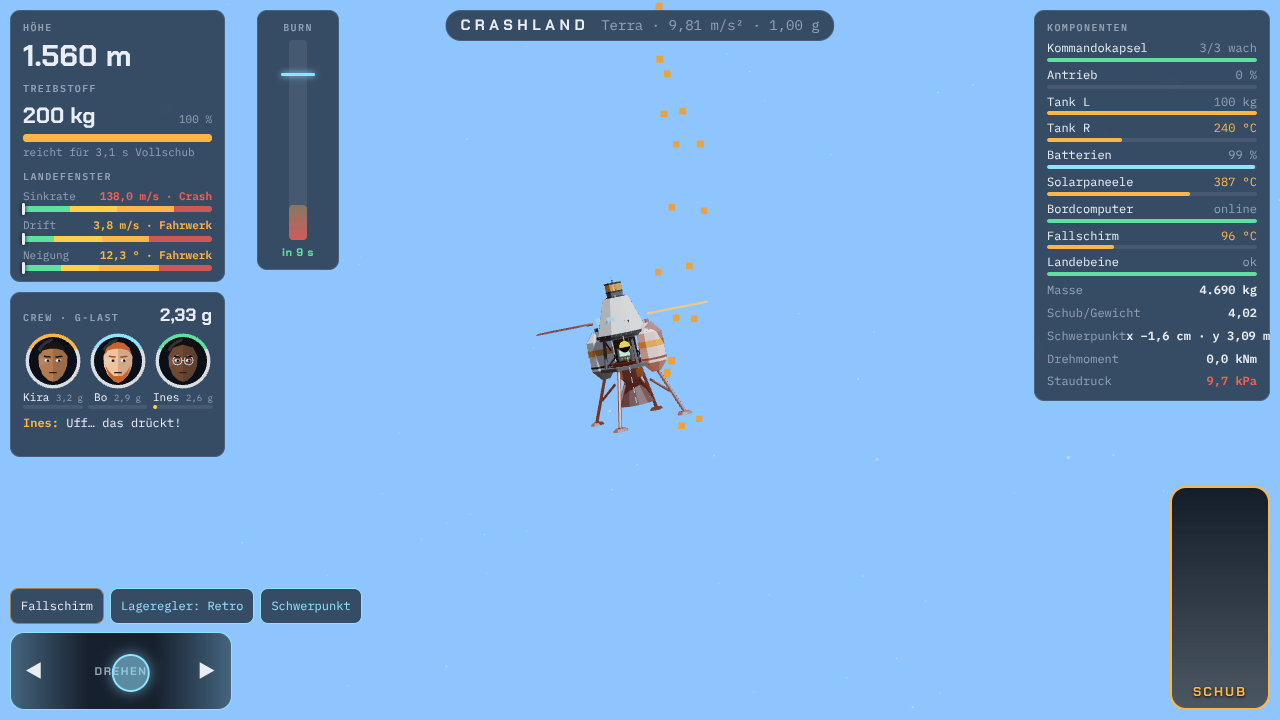
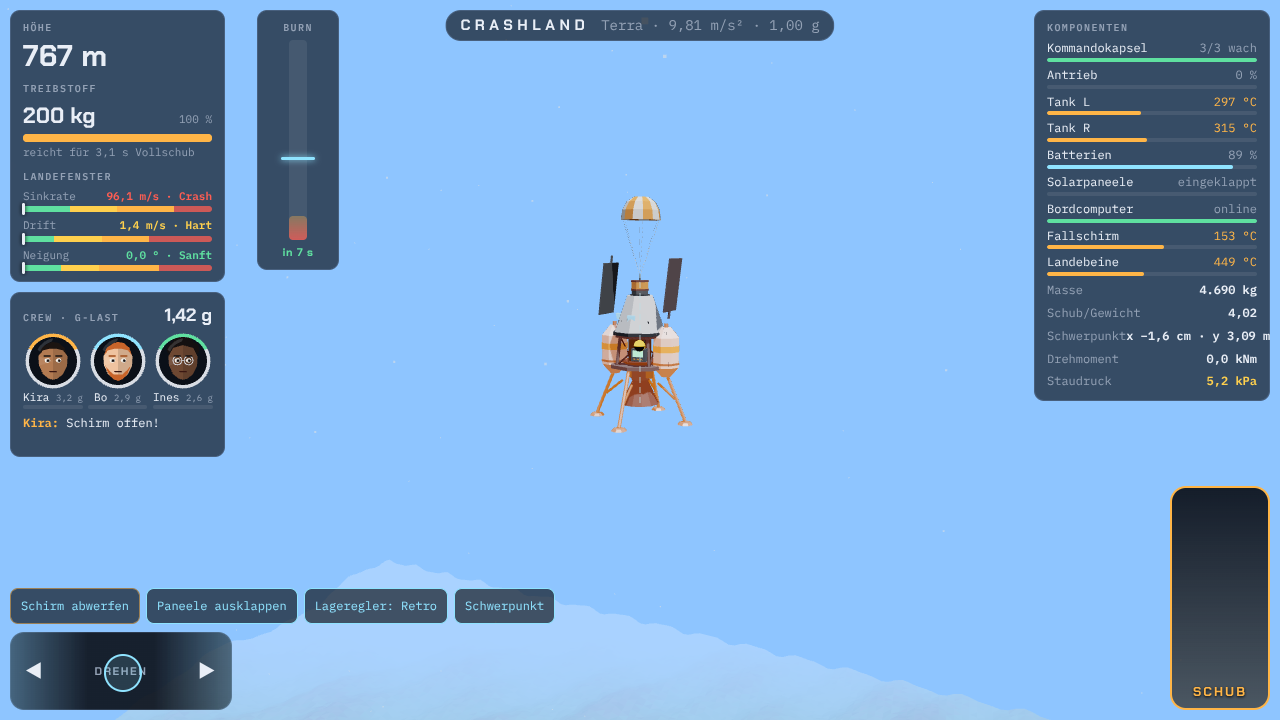
Fold-in solar panels, drag-aware burn computer, consistent chute hints
- Solar panels fold in/out (E / button): protected from heat, no charging;
  extended panels now burn off during Terra entry; button blinks when hot,
  heat alert says to fold them in
- Stopping distance includes air drag and the (reefed) parachute; burn
  point adds a reaction reserve; countdown is a look-ahead with drag
- Chute button glow and 'Fallschirm möglich' use the same threshold
- HUD audit: a pilot following only the HUD lands Terra at 1.5 m/s

Claude-Session: https://claude.ai/code/session_01QStA4257P6PGfjBjXrtENg

diff --git a/src/hud.js b/src/hud.js
@@ -47,6 +47,7 @@ export function createHud() {
 
   const heatFrac = (s, id) => { const c = S.COMPONENTS.find((k) => k.id === id); return (s.temp[id] - S.T_AMB) / (c.heat[1] - S.T_AMB); };
   const lostAt = {};
+  const ttb = { at: undefined, v: 0 };
 
   function recentLoss(s) {
     for (const c of S.COMPONENTS) if (s.lost[c.id] && s.t - (lostAt[c.id] ??= s.t) < 3) return c.name;
@@ -54,7 +55,7 @@ export function createHud() {
   }
   function hottest(s) {
     let best = { f: 0, name: '' };
-    for (const c of S.COMPONENTS) if (c.heat && !s.lost[c.id]) { const f = heatFrac(s, c.id); if (f > best.f) best = { f, name: c.name }; }
+    for (const c of S.COMPONENTS) if (c.heat && !s.lost[c.id]) { const f = heatFrac(s, c.id); if (f > best.f) best = { f, name: c.name, solar: c.model === 'solar' }; }
     return best;
   }
 
@@ -102,10 +103,11 @@ export function createHud() {
 
     // burn gauge: altitude vs stopping distance on one scale
     const d = S.stoppingDistance(s);
+    const burnAlt = S.burnAltitude(s);
     const scale = Math.max(p.alt, alt) * 1.05;
     const gauge = $('burn-gauge');
     gauge.style.opacity = s.computerOK ? 1 : 0.25;
-    $('burn-stop').style.height = `${Math.min(1, d / scale) * 100}%`;
+    $('burn-stop').style.height = `${Math.min(1, burnAlt / scale) * 100}%`;
     $('burn-alt').style.bottom = `calc(${Math.min(1, alt / scale) * 100}% - 1px)`;
     const bl = $('burn-label');
     let label = '', lc = 'mute';
@@ -114,9 +116,8 @@ export function createHud() {
     else if (!s.computerOK) { label = 'OFFLINE'; lc = 'bad'; }
     else if (s.vy >= -0.5) { label = 'SCHWEBT'; lc = ''; }
     else if (!isFinite(d)) { label = 'ZU WENIG SCHUB'; lc = 'bad'; }
-    else if (alt <= d * 1.02) { label = 'BURN!'; lc = 'bad'; }
-    else if (alt <= d * 1.35) { label = 'BEREIT'; lc = 'warn'; }
-    else { label = `in ${fmt(Math.max(0, (alt - d) / -s.vy), 0)} s`; lc = 'ok'; }
+    else if (alt <= burnAlt) { label = 'BURN!'; lc = 'bad'; }
+    else { if (!(s.t - (ttb.at ?? -1) < 0.2 && ttb.at <= s.t)) { ttb.v = S.timeToBurn(s); ttb.at = s.t; } const tb = ttb.v; if (tb < 3) { label = 'BEREIT'; lc = 'warn'; } else { label = `in ${fmt(tb, 0)} s`; lc = 'ok'; } }
     bl.textContent = label; cls(bl, lc);
 
     // components
@@ -128,7 +129,7 @@ export function createHud() {
     setRow('tankL', `${fmt(s.fuelL)} kg`, s.fuelL / half, fc(s.fuelL));
     setRow('tankR', `${fmt(s.fuelR)} kg`, s.fuelR / half, fc(s.fuelR));
     setRow('battery', `${fmt(s.battery)} %`, s.battery / S.BAT_CAP, s.battery < 20 ? 'var(--bad)' : 'var(--cyan)');
-    setRow('solar', `${fmt(p.solar * 100)} % Licht`, p.solar, 'var(--cyan)');
+    setRow('solar', s.panels === 'in' ? 'eingeklappt' : `${fmt(p.solar * 100)} % Licht`, s.panels === 'in' ? 0 : p.solar, 'var(--cyan)');
     setRow('computer', s.computerOK ? 'online' : 'offline', s.computerOK ? 1 : 0, 'var(--ok)');
     setRow('legs', 'ok', 1, 'var(--ok)');
     const air = p.rho > 0;
@@ -138,11 +139,18 @@ export function createHud() {
     const qEl = $('v-q');
     qEl.textContent = air ? `${fmt(s.q / 1000, 1)} kPa` : '–';
     cls(qEl, s.q > S.CHUTE_QMAX ? 'bad' : s.q > S.CHUTE_QMAX * 0.8 ? 'warn' : '');
+    const pb = $('c-panels');
+    const solarGone = s.lost.solarL && s.lost.solarR;
+    pb.textContent = solarGone ? 'Paneele weg' : s.panels === 'out' ? 'Paneele einklappen' : 'Paneele ausklappen';
+    pb.disabled = solarGone;
+    pb.classList.toggle('on', s.panels === 'in' && !solarGone);
+    const solarHeat = Math.max(...['solarL', 'solarR'].filter((id) => !s.lost[id]).map((id) => heatFrac(s, id)), 0);
+    pb.classList.toggle('warn', s.panels === 'out' && solarHeat > 0.45 && !solarGone);
     const cb = $('c-chute');
     cb.textContent = { burned: 'Schirm verglüht', stowed: 'Fallschirm', open: air ? 'Schirm abwerfen' : 'Schirm (nutzlos)', cut: 'Schirm weg', torn: 'Schirm gerissen' }[s.chute];
     cb.disabled = s.chute === 'cut' || s.chute === 'torn' || s.chute === 'burned' || (s.chute === 'open' && !air);
     cb.classList.toggle('on', s.chute === 'open' && air);
-    cb.classList.toggle('ready', s.chute === 'stowed' && air && s.status === 'flying' && s.q <= S.CHUTE_QMAX && s.t > 0.2);
+    cb.classList.toggle('ready', s.chute === 'stowed' && air && s.status === 'flying' && s.q <= S.CHUTE_QMAX * S.CHUTE_SAFE && s.t > 0.2);
     // heat: hot or destroyed components override their row
     const rowParts = { capsule: ['capsule'], engine: ['engine'], tankL: ['tankL'], tankR: ['tankR'], battery: ['battery'], solar: ['solarL', 'solarR'], computer: ['computer'], chute: ['chute'], legs: ['legs'] };
     for (const [row, ids] of Object.entries(rowParts)) {
@@ -184,7 +192,7 @@ export function createHud() {
     else if (s.gNow > minLimit && s.throttle > 0) { msg = 'G-LAST: CREW LEIDET'; color = 'var(--warn)'; pulse = false; }
     else if (recentLoss(s)) msg = `${recentLoss(s).toUpperCase()} VERGLÜHT`;
     else if (s.chute === 'torn' && s.t - (tornAt ??= s.t) < 3) msg = 'FALLSCHIRM GERISSEN';
-    else if (hottest(s).f > 0.75) { const h = hottest(s); msg = `HITZE: ${h.name.toUpperCase()} ${fmt(h.f * 100)} %`; color = h.f > 0.9 ? 'var(--bad)' : 'var(--warn)'; pulse = h.f > 0.9; }
+    else if (hottest(s).f > 0.75) { const h = hottest(s); msg = `HITZE: ${h.name.toUpperCase()} ${fmt(h.f * 100)} %${h.solar && s.panels === 'out' ? ' – EINKLAPPEN!' : ''}`; color = h.f > 0.9 ? 'var(--bad)' : 'var(--warn)'; pulse = h.f > 0.9; }
     else if (S.fuel(s) <= 0) msg = 'TREIBSTOFF LEER';
     else if (fuelFrac < 0.12 && s.throttle > 0) { msg = 'TREIBSTOFF KNAPP'; color = 'var(--warn)'; pulse = false; }
     else if (!s.powered) { msg = 'BATTERIE LEER – PUMPEN AUS, MAX. 60 % SCHUB'; color = 'var(--warn)'; }
@@ -194,10 +202,10 @@ export function createHud() {
       msg = `AUFSETZEN: ${what} · ${S.GRADES[worst].name.toUpperCase()}`;
       color = S.GRADES[worst].color; pulse = worst === 3;
     }
-    else if (s.powered && s.vy < -0.5 && isFinite(d) && alt <= d * 1.02 && s.throttle < 0.95 * s.limit) msg = 'BURN!';
+    else if (s.powered && s.vy < -0.5 && isFinite(d) && alt <= burnAlt && s.throttle < 0.95 * s.limit) msg = 'BURN!';
     else if (s.battery < 20) { msg = 'BATTERIE SCHWACH'; color = 'var(--warn)'; pulse = false; }
-    else if (s.chute === 'stowed' && p.rho > 0 && alt > 120 && s.vy < -15 && s.t > 0.2 && !(s.powered && isFinite(d) && alt <= d * 1.02)) {
-      if (s.q <= S.CHUTE_QMAX * 0.95) { msg = 'FALLSCHIRM MÖGLICH'; color = 'var(--cyan)'; pulse = false; }
+    else if (s.chute === 'stowed' && p.rho > 0 && alt > 120 && s.vy < -15 && s.t > 0.2 && !(s.powered && isFinite(d) && alt <= burnAlt)) {
+      if (s.q <= S.CHUTE_QMAX * S.CHUTE_SAFE) { msg = 'FALLSCHIRM MÖGLICH'; color = 'var(--cyan)'; pulse = false; }
     }
     if (s.chute !== 'torn') tornAt = undefined;
     al.hidden = !msg || s.status !== 'flying';

diff --git a/src/sim.js b/src/sim.js
@@ -66,8 +66,8 @@ export const COMPONENTS = [
   { id: 'engine',   name: 'Antrieb',          model: 'engine',   mass: 950,  pos: [0, 1.5, 0], heat: [1.0, 1800] },
   { id: 'tankL',    name: 'Treibstofftank L', model: 'tank',     mass: 200,  pos: [-1.15, 2.9, 0], fuel: 'fuelL', heat: [0.6, 640] },
   { id: 'tankR',    name: 'Treibstofftank R', model: 'tank',     mass: 200,  pos: [1.15, 2.9, 0], fuel: 'fuelR', heat: [0.6, 640] },
-  { id: 'solarL',   name: 'Solarpaneel L',    model: 'solar',    mass: 110,  pos: [-2.5, 4.25, 0], mirror: true, heat: [1.0, 560] },
-  { id: 'solarR',   name: 'Solarpaneel R',    model: 'solar',    mass: 110,  pos: [2.5, 4.25, 0], heat: [1.0, 560] },
+  { id: 'solarL',   name: 'Solarpaneel L',    model: 'solar',    mass: 110,  pos: [-2.5, 4.25, 0], mirror: true, heat: [1.0, 480] },
+  { id: 'solarR',   name: 'Solarpaneel R',    model: 'solar',    mass: 110,  pos: [2.5, 4.25, 0], heat: [1.0, 480] },
   { id: 'computer', name: 'Bordcomputer',     model: 'computer', mass: 150,  pos: [0.35, 2.85, 0.8], heat: [0.12, 330] },
   { id: 'battery',  name: 'Batterien',        model: 'battery',  mass: 420,  pos: [-0.3, 2.85, -0.8], heat: [0.12, 300] },
   { id: 'chute',    name: 'Fallschirm',       model: 'chutepack', mass: 120, pos: [0, 5.55, 0], heat: [0.28, 260] },
@@ -99,6 +99,7 @@ export function createState(planet) {
     gNow: 0, maxG: 0, gStress: 0, gOverTime: 0, powered: true, blackout: false,
     crew: CREW.map((c) => ({ ...c, stress: 0, out: false, fainted: 0 })),
     torqueCom: 0, sasTorque: 0, temp: Object.fromEntries(COMPONENTS.map((c) => [c.id, T_AMB])), lost: {}, events: [],
+    panels: 'out', panelFold: 0,
     chute: 'stowed', chuteT: 0, chuteInflate: 0, chuteOpen: 0, q: 0, maxQ: 0, drag: 0,
     status: 'flying', reason: '', touch: null, log: [],
   };
@@ -121,6 +122,12 @@ export function massProps(s) {
 /** Air density at the lander's height. */
 export function density(s) { return s.planet.rho * Math.exp(-Math.max(0, s.y) / s.planet.H); }
 
+/** Fold the solar panels in (protected from heat, no charging) or out again. */
+export function togglePanels(s) {
+  if (s.status !== 'flying') return;
+  s.panels = s.panels === 'out' ? 'in' : 'out';
+}
+
 /** P key / button: deploy the stowed chute, or cut an open one. Returns what happened. */
 export function toggleChute(s) {
   if (s.status !== 'flying') return null;
@@ -134,14 +141,51 @@ export function toggleChute(s) {
 
 export function fuel(s) { return s.fuelL + s.fuelR; }
 
-/** Bordcomputer: stopping distance at the current throttle limit (m), Infinity if impossible. */
+/** Bordcomputer burn point: stopping distance plus a reaction reserve (≈ 1 s of descent + 15 %). */
+export function burnAltitude(s) {
+  const d = stoppingDistance(s);
+  return isFinite(d) ? d * 1.15 + Math.max(0, -s.vy) * 0.8 + 2 : d;
+}
+
+/** Seconds of free fall (with drag) until the burn point is reached. */
+export function timeToBurn(s) {
+  const { m } = massProps(s);
+  const rho = density(s);
+  const chuteK = s.chute === 'open' && s.planet.rho > 0 ? s.chuteInflate : 0;
+  let v = -s.vy, alt = altitude(s), t = 0;
+  const h = 0.1;
+  const probe = { ...s };
+  for (let i = 0; i < 600; i++) {
+    probe.vy = -v; probe.y = s.y - (altitude(s) - alt);
+    if (alt <= burnAltitude(probe)) return t;
+    const q = 0.5 * rho * v * v;
+    const drag = q * BODY_CDA + Math.min(q * CHUTE_CDA * chuteK, chuteK > 0 ? CHUTE_FMAX : 0);
+    v += (s.planet.g - drag / m) * h;
+    alt -= v * h; t += h;
+  }
+  return t;
+}
+export const CHUTE_SAFE = 0.95; // deploy hint/button below this share of CHUTE_QMAX
+
+/** Bordcomputer: stopping distance (m) burning at the current throttle limit, including air drag
+ *  and the parachute as it is right now. Infinity if the engine cannot stop the descent. */
 export function stoppingDistance(s) {
+  if (s.vy >= 0) return 0;
   const { m } = massProps(s);
   const maxFrac = s.powered ? 1 : 0.6;
-  const acc = (F_MAX * Math.min(s.limit, maxFrac) / m) * Math.cos(s.a) - s.planet.g;
-  if (s.vy >= 0) return 0;
-  if (acc <= 0) return Infinity;
-  return (s.vy * s.vy) / (2 * acc);
+  const aThr = ((F_MAX * Math.min(s.limit, maxFrac)) / m) * Math.cos(s.a);
+  if (aThr <= s.planet.g) return Infinity;
+  const rho = density(s);
+  const chuteK = s.chute === 'open' && s.planet.rho > 0 ? s.chuteInflate : 0;
+  let v = -s.vy, d = 0;
+  const h = 0.02;
+  for (let i = 0; i < 20000 && v > 0; i++) {
+    const q = 0.5 * rho * v * v;
+    const drag = q * BODY_CDA + Math.min(q * CHUTE_CDA * chuteK, CHUTE_FMAX * (chuteK > 0 ? 1 : 0));
+    v -= (aThr + drag / m - s.planet.g) * h;
+    d += Math.max(0, v) * h;
+  }
+  return d;
 }
 
 export function altitude(s) {
@@ -252,8 +296,9 @@ export function step(s, input, dt) {
 
   // --- power ---
   const use = 1.0 + (s.sas ? 0.4 : 0) + 2.2 * rcsUse + 1.2 * thr;
+  s.panelFold = Math.max(0, Math.min(1, s.panelFold + (s.panels === 'in' ? dt : -dt) / 1.2));
   const panels = (s.lost.solarL ? 0 : 1) + (s.lost.solarR ? 0 : 1);
-  const gain = 1.6 * p.solar * (panels / 2);
+  const gain = 1.6 * p.solar * (panels / 2) * (1 - s.panelFold);
   s.battery = Math.max(0, Math.min(BAT_CAP, s.battery + (gain - use) * dt));
 
   // --- aerodynamic heating: hot parts glow, overheated parts blow off ---
@@ -263,7 +308,8 @@ export function step(s, input, dt) {
   for (const c of COMPONENTS) {
     if (s.lost[c.id] || !c.heat) continue;
     const side = Math.sign(c.pos[0]);
-    const exp = Math.max(0, c.heat[0] * (1 + side * sideways * 2.5));
+    let exp = Math.max(0, c.heat[0] * (1 + side * sideways * 2.5));
+    if (c.model === 'solar') exp *= 1 - 0.88 * s.panelFold; // folded panels sit in the lee of the frame
     s.temp[c.id] += (flux * exp - HEAT_COOL * (s.temp[c.id] - T_AMB)) * dt;
     if (s.temp[c.id] > c.heat[1]) destroy(s, c.id);
   }

diff --git a/src/crew.js b/src/crew.js
@@ -192,7 +192,7 @@ const LINES = {
   chuteUseless: ['ines', 'Ein Fallschirm. Ohne Luft. Netter Versuch.'],
   chuteTorn: ['bo', 'Der Schirm ist gerissen! Wir waren zu schnell!'],
   chuteCut: ['kira', 'Schirm abgeworfen.'],
-  heat: ['bo', 'Die Solarpaneele glühen! Gerade halten!'],
+  heat: ['bo', 'Die Solarpaneele glühen! Einklappen!'],
   lost: { solarL: ['bo', 'Solarpaneel links weggeschmolzen!'], solarR: ['bo', 'Solarpaneel rechts weggeschmolzen!'],
     tankL: ['kira', 'Tank links explodiert!'], tankR: ['kira', 'Tank rechts explodiert!'], chute: ['ines', 'Der Fallschirm ist verbrannt!'],
     computer: ['bo', 'Bordcomputer ist hin!'], battery: ['bo', 'Batterien durchgebrannt!'], legs: ['kira', 'Die Landebeine… sind weg.'],
@@ -238,7 +238,7 @@ export function createCrew(container, sayEl) {
       if (s.chute === 'torn') say('chute-torn', ...LINES.chuteTorn, t);
       if (s.chute === 'cut') say('chute-cut', ...LINES.chuteCut, t);
     }
-    const solarHot = ['solarL', 'solarR'].some((id) => !s.lost[id] && s.temp[id] > S.COMPONENTS.find((c) => c.id === id).heat[1] * 0.7);
+    const solarHot = s.panels === 'out' && ['solarL', 'solarR'].some((id) => !s.lost[id] && s.temp[id] > S.COMPONENTS.find((c) => c.id === id).heat[1] * 0.45);
     if (solarHot) say('heat', ...LINES.heat, t);
     for (const id of Object.keys(s.lost)) if (LINES.lost[id]) say(`lost-${id}`, ...LINES.lost[id], t);
     s.crew.forEach((c, i) => {

diff --git a/index.html b/index.html
@@ -63,6 +63,7 @@
       <div class="left">
         <div class="toggles">
           <button id="c-chute" class="tog chute"></button>
+          <button id="c-panels" class="tog"></button>
           <button id="c-sas" class="tog"></button>
           <button id="c-com" class="tog">Schwerpunkt</button>
         </div>
@@ -85,7 +86,7 @@
       <div id="planets"></div>
       <div id="window-info"></div>
       <p class="keys touch-hint">Touch: <b>Schubhebel</b> rechts drücken und hoch/runter ziehen (oben = 100 %) · <b>Drehfeld</b> links: weiter außen drücken = stärker drehen · <b>Fallschirm</b>-Taste über dem Drehfeld · Kamera: auf der Szene wischen</p>
-      <p class="keys key-hint"><kbd>Leertaste</kbd> Schub · <kbd>W</kbd>/<kbd>S</kbd> Schubbegrenzer · <kbd>A</kbd>/<kbd>D</kbd> drehen · <kbd>P</kbd> Fallschirm · <kbd>T</kbd> Lageregler · <kbd>C</kbd> Schwerpunkt · <kbd>R</kbd> Neustart · <kbd>M</kbd> Menü</p>
+      <p class="keys key-hint"><kbd>Leertaste</kbd> Schub · <kbd>W</kbd>/<kbd>S</kbd> Schubbegrenzer · <kbd>A</kbd>/<kbd>D</kbd> drehen · <kbd>P</kbd> Fallschirm · <kbd>E</kbd> Paneele ein/aus · <kbd>T</kbd> Lageregler · <kbd>C</kbd> Schwerpunkt · <kbd>R</kbd> Neustart · <kbd>M</kbd> Menü</p>
     </div>
   </div>
 

diff --git a/src/main.js b/src/main.js
@@ -148,6 +148,7 @@ addEventListener('keydown', (e) => {
   if (mode !== 'flight') return;
   if (e.code === 'KeyT') cycleSas();
   if (e.code === 'KeyP') S.toggleChute(s);
+  if (e.code === 'KeyE') S.togglePanels(s);
   if (e.code === 'KeyC') toggleCom();
 });
 addEventListener('keyup', (e) => keys.delete(e.code));
@@ -186,6 +187,7 @@ function cycleSas() { s.sas = { retro: 'up', up: false }[s.sas] ?? 'retro'; }
 function toggleCom() { showCom = !showCom; ship.helpers.visible = showCom; $('c-com').classList.toggle('on', showCom); }
 $('c-sas').addEventListener('click', cycleSas);
 $('c-chute').addEventListener('click', () => S.toggleChute(s));
+$('c-panels').addEventListener('click', () => S.togglePanels(s));
 $('c-com').addEventListener('click', toggleCom);
 $('c-com').classList.add('on');
 $('r-again').addEventListener('click', () => start(planet));

diff --git a/src/ship.js b/src/ship.js
@@ -121,6 +121,16 @@ export function createShip(models) {
     group.position.set(s.x, s.y - (group.userData.sink || 0), 0);
     group.rotation.z = s.a;
     updateChute(s, t, dt);
+    // solar wings fold up around their root at the frame (root is 1.25 m inboard of the panel centre)
+    const th = s.panelFold * 1.45;
+    for (const id of ['solarL', 'solarR']) {
+      const part = parts[id];
+      if (part.parent !== group) continue;
+      const c = part.userData.component, side = Math.sign(c.pos[0]);
+      const rootX = c.pos[0] - side * 1.25;
+      part.position.set(rootX + side * 1.25 * Math.cos(th), c.pos[1] + 1.25 * Math.sin(th), c.pos[2]);
+      part.rotation.z = side * th;
+    }
     updateHeat(s, dt);
     const thr = s.status === 'flying' ? s.throttle : 0;
     const flick = 0.9 + Math.random() * 0.2;

diff --git a/src/style.css b/src/style.css
@@ -90,6 +90,7 @@ dd { white-space: nowrap; }
 .toggles { display: flex; gap: 6px; flex-wrap: wrap; }
 .tog { background: var(--glass); border: 1px solid var(--glass-edge); border-radius: 8px; padding: 8px 10px; font-size: 12px; min-height: 36px; }
 .tog.on { border-color: var(--cyan); color: var(--cyan); }
+.tog.warn { border-color: var(--bad); color: var(--bad); animation: pulse 0.6s steps(2) infinite; }
 .tog:disabled { opacity: 0.4; cursor: default; }
 .tog.chute { border-color: rgba(255,181,71,0.5); }
 .tog.chute.ready { border-color: var(--amber); color: var(--amber); box-shadow: 0 0 10px rgba(255,181,71,0.35); }

diff --git a/README.md b/README.md
@@ -13,7 +13,7 @@ Your lander falls toward a planet without power. Light the main engine as late a
 - **Centre of mass**: computed live from all components (marker + thrust axis in 3D). If it sits off the thrust axis, the engine creates torque that attitude control has to compensate.
 - **Power**: the battery feeds the flight computer, attitude control and the fuel pumps. Solar panels recharge depending on planet. Empty battery → computer offline, pumps off, max. 60 % thrust.
 - **Atmosphere & parachute**: air density per planet (Luna none, Mars very thin, Terra normal, Brontes dense) slows the lander (drag, terminal velocity). The parachute (P / button) inflates over ~2 s and is reefed: the riser load is capped (~70 kN), so it never jerks harder than ~2.5 g and opens fully only as the lander slows down. Above 5.5 kPa dynamic pressure it tears. Air drag counts as g-load for the crew. On Terra you can deploy once the lander has slowed to terminal velocity; on Brontes its terminal velocity is already too fast for the canopy, so you have to brake with the engine first. It can be cut away again; on Luna it is useless.
-- **Re-entry heat**: every component has its own temperature (heating ∝ √ρ · v³, game-scaled). Hot parts glow dark red → orange → yellow and shed sparks; above their limit they explode and break off, with consequences: solar panel → less charging, tank → its fuel is gone (and the centre of mass shifts), parachute pack → no parachute, computer → no attitude control or burn display, battery → no power, legs → no landing. On Terra the solar panels get close to their limit even when upright; tilting the lander during entry exposes one side and burns that panel off. The attitude controller only leans into the drift while the engine is firing.
+- **Re-entry heat**: every component has its own temperature (heating ∝ √ρ · v³, game-scaled). Hot parts glow dark red → orange → yellow and shed sparks; above their limit they explode and break off, with consequences: solar panel → less charging, tank → its fuel is gone (and the centre of mass shifts), parachute pack → no parachute, computer → no attitude control or burn display, battery → no power, legs → no landing. On Terra the extended solar panels burn off during entry; fold them in (E / button, ~1 s, no charging while folded) and keep the lander upright, since tilting exposes one side more. The attitude controller only leans into the drift while the engine is firing.
 - **Planets**: Luna (1.62 m/s²), Mars (3.71), Terra (9.81), Brontes (15.2: super-Earth, dense air, little thrust reserve).
 
 Landing window (same on all planets, shown live in the HUD):
@@ -35,11 +35,14 @@ On a crash the ship breaks into its components; the explosion scales with impact
 | W / S, ↑ / ↓ | throttle lever | Thrust limiter |
 | A / D, ← / → | **Rotate pad** (left): press left/right of centre, further out = stronger | Rotate (RCS), analog |
 | P | Fallschirm | Deploy / cut away the parachute |
+| E | Paneele | Fold the solar panels in / out |
 | T | Lageregler | Attitude control: Retro (leans against drift) / Vertical / Off |
 | C | Schwerpunkt | Show centre of mass and thrust axis |
 | R / M | buttons | Restart / planet select |
 
 Lever and rotate pad each track their own touch point, so both work at the same time with two thumbs. The layout adapts to desktop, phone portrait and phone landscape.
+
+The flight computer's burn point includes air drag and the parachute and adds a reaction reserve (~15 % + about 1 s of descent); the countdown before it is a short look-ahead with drag.
 
 ## Structure
 
